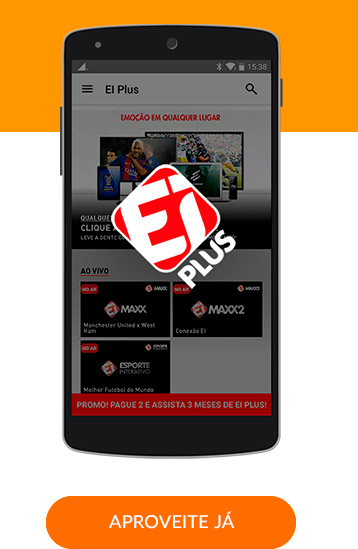
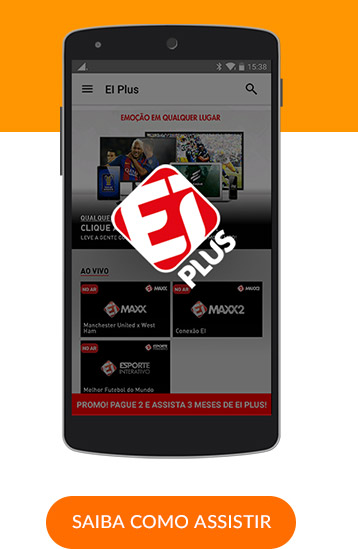
ajustes esporte interativo (textos e imagens)

diff --git a/portal-copel-telecom/emails/Email_EsporteInterativo.html b/portal-copel-telecom/emails/Email_EsporteInterativo.html
@@ -29,15 +29,15 @@
 						<td valign="top">
 							<img src="http://www.copeltelecom.com/site/wp-content/themes/portal-copel-telecom/_assets/images/email/ei-tt.jpg" height="132" width="392" alt="Não perca essa chance única de assistir as maiores competições do planeta." border="0" />
 							<font face="Arial, Tahoma, Sans-serif" color="#6375a0" style="font-size: 16px; font-weight: 400; display: block; line-height: 24px; padding-left: 62px; padding-top: 33px;">
-								Os principais conteúdos oferecidos pelo Esporte Interativo são os jogos da <strong style="color: #ff6d00;">UEFA Champions League</strong> (competição que reúne os melhores times do futebol europeu) e a <strong style="color: #ff6d00;">E-League</strong> (maior torneio de Counter Strike), além da <strong style="color: #ff6d00;">National Football League (NFL)</strong>, a maior liga de futebol americano que conecta você às novidades dos times dos Estados Unidos.
+								Os principais conteúdos oferecidos pelo Esporte Interativo são os jogos da <strong style="color: #ff6d00;">UEFA Champions League</strong> (maior torneio de clubes do mundo) e a <strong style="color: #ff6d00;">E-League</strong> (maior competição de Counter Strike), além da <strong style="color: #ff6d00;">National Football League (NFL)</strong>, a maior liga de futebol americano que conecta você às novidades dos times dos Estados Unidos.
 								<br><br>
-								Você também pode ficar ligado nas transmissões de lutas através de programas como o <strong style="color: #ff6d00;">TNA Impact</strong>, além de grandes eventos de MMA.
+								Você também pode ficar ligado nas transmissões de lutas mais surpreendentes de <strong style="color: #ff6d00;">MMA </strong> e em toda a emoção do <strong style="color: #ff6d00;">Pro Wrestling.</strong> É hora de desfrutar por completo do mundo dos esportes através de toda a programação dos Canais do Esporte Interativo.
 								<br><br>
-								<a style="color: #6375a0; font-size: 16px;">Utilize seu e-mail de cadastro da Copel Telecom como Login e o CPF do titular da conta como senha.</a>
+								<span style="color: #6375a0; font-size: 16px;">Utilize seu e-mail de cadastro da Copel Telecom como Login e o CPF do titular da conta como senha.</span>
 							</font>
 						</td>
-						<td>
-							<a href="http://www.copeltelecom.com/site/esporte-interativo"><img src="http://www.copeltelecom.com/site/wp-content/themes/portal-copel-telecom/_assets/images/email/ei-saiba-mais.jpg" height="549" width="358" alt="Não veja pela metade. - Não fique sem internet no meio do episódio. Assine Copel Telecom e leve até 6 meses de Netflix por nossa conta." border="0" style="display: block; margin: 0px; margin-top: -52px" /></a>
+						<td valign="top">
+							<a href="http://www.copeltelecom.com/site/esporte-interativo"><img src="http://www.copeltelecom.com/site/wp-content/themes/portal-copel-telecom/_assets/images/email/ei-saiba-mais.jpg" height="549" width="358" alt="Não veja pela metade. - Não fique sem internet no meio do episódio. Assine Copel Telecom e leve até 6 meses de Netflix por nossa conta." border="0" style="display: block; margin: 0px;" /></a>
 						</td>
 					</tr>
 				</table>
@@ -50,7 +50,7 @@
 
 		<tr>
 			<td align="center">
-						<font face="Arial, Tahoma, Sans-serif" color="#6375a0" style="font-size: 16px; font-weight: 400; display: block; line-height: 24px; padding-left: 62px; padding-top: 33px;">
+				<font face="Arial, Tahoma, Sans-serif" color="#6375a0" style="font-size: 16px; font-weight: 400; display: block; line-height: 24px; padding-left: 62px; padding-top: 33px;">
 					Mais detalhes sobre a parceria você pode consultar no <a href="http://www.copeltelecom.com/site/wp-content/themes/portal-copel-telecom/_assets/pdf/regulamento-promocional_vf2.pdf" target="_blank" style="text-decoration: underline; color: #6375a0;">Regulamento!</a>
 				</font>
 			</td>

diff --git a/portal-copel-telecom/page-esporte-interativo.php b/portal-copel-telecom/page-esporte-interativo.php
@@ -9,10 +9,10 @@
 			<div class="container">
 				<div class="row">
 					<div class="col-md-6 col-sm-9 col-xs-12">
-						<h1>Clientes Copel Telecom*, tem acesso gratuito ao aplicativo EI Plus.</h1>
-						<p>Com ele, você pode acompanhar as maiores competições esportivas do planeta! Aproveite, o beneficio vai até o final de abril de 2017. Não perca tempo!</p>
+						<h1>Cliente Copel Telecom, tem acesso gratuito ao conteúdo do Esporte Interativo</h1>
+						<p>Com ele, você pode acompanhar as maiores competições esportivas do planeta! Aproveite, o beneficio vai até o final de abril. Não perca tempo!</p>
 						<a href="#sobre" class="bt bt-orange">SAIBA COMO ASSISTIR</a>
-						<small>*Disponível para os planos residenciais a partir de 10Mbps.</small>
+						<small>*Disponível para os planos residenciais a partir de 10 Mbps.</small>
 						<div class="clearfix"></div>
 					</div>
 					<div class="col-md-6 col-sm-9 col-xs-12">
@@ -30,19 +30,19 @@
 				
 				<article class="row">
 					
-					<figure class="col-sm-5 col-sm-offset-1 pad25R hidden-sm hidden-xs">
+					<figure class="col-sm-6 hidden-sm hidden-xs">
 
 						<img src="<?php bloginfo('template_url'); ?>/_assets/images/esporte-interativo/campeonatos.jpg" class="mrg50R" alt="Campeonatos">
 
 					</figure>
 
-					<div class="col-sm-5 pad25L">
+					<div class="col-sm-5 pad50L">
 
 						<span class="space-50"></span>
 						<img src="<?php bloginfo('template_url'); ?>/_assets/images/esporte-interativo/logo.jpg" class="logo-ei" alt="Canais Esporte Interativo">
 						<h3>A paixão e a emoção pelo esporte, onde você estiver</h3>
-						<p>Assista aos principais conteúdos oferecidos pelos Canais Esporte Interativo e fique por dentro de tudo o que acontece no mundo dos esportes. São programas imperdíveis como a <strong class="text-orange">UEFA Champions League</strong> (competição que reúne os melhores times do futebol europeu) e a <strong class="text-orange">E-League</strong> (maior torneio de Counter Strike), além da <strong class="text-orange">National Football League (NFL)</strong>, a maior liga de futebol americano que conecta você às novidades dos times dos Estados Unidos.</p>
-						<p>Você também pode ficar ligado nas transmissões das lutas mais emocionantes de <strong class="text-orange">MMA</strong> e <strong class="text-orange">Wrestling</strong> e desfrutar por completo do mundo dos esportes através de toda a programação dos Canais do Esporte Interativo.</p>
+						<p>Assista aos principais conteúdos oferecidos pelos Canais Esporte Interativo e fique por dentro de tudo o que acontece no mundo dos esportes. São programas imperdíveis, como a <strong class="text-orange">UEFA Champions League</strong> (maior torneio de clubes do mundo) e a <strong class="text-orange">E-League</strong> (maior competição de Counter Strike), além da <strong class="text-orange">National Football League (NFL)</strong>, a maior liga de futebol americano que conecta você às novidades dos times dos Estados Unidos.</p>
+						<p>Você também pode ficar ligado nas transmissões das lutas mais surpreendentes de <strong class="text-orange">MMA</strong> e em toda emoção do <strong class="text-orange">Wrestling.</strong> É hora de desfrutar por completo do mundo dos esportes através de toda a programação dos Canais do Esporte Interativo.</p>
 
 					</div>
 
@@ -64,7 +64,7 @@
 						<div class="col-sm-4">
 
 							<h3>Sobre o Esporte Interativo</h3>
-							<p>O Esporte Interativo é uma das maiores marcas do mundo dedicada a produção e distribuição de conteúdos esportivos em múltiplas plataformas. Formado pelos canais <span class="text-orange">EIMAXX</span>, <span class="text-orange">EIMAXX 2</span> e <span class="text-orange">Esporte Interativo</span>, o EI Plus, tem o objetivo de estar próximo do público apaixonado por esportes, onde ele estiver. </p>
+							<p>O Esporte Interativo é uma das maiores marcas do mundo dedicada à produção e distribuição de conteúdos esportivos em múltiplas plataformas. Formado pelos canais <span class="text-orange">EIMAXX</span>, <span class="text-orange">EIMAXX 2</span> e <span class="text-orange">Esporte Interativo</span>, o EI Plus, tem o objetivo de estar próximo do público apaixonado por esportes, onde ele estiver. </p>
 							<p><strong>No EI Plus você pode acompanhar todos os conteúdos dos Canais Esporte interativo no celular, no computador, na smart TV LG, no tablet ou na Apple TV.</strong></p>
 							<a href="#como-acessar" class="bt bt-orange">SAIBA COMO ACESSAR</a>
 						</div>
@@ -98,7 +98,7 @@
 						<h3>Clientes Copel Telecom</h3>
 
 						<div class="col-sm-10 col-sm-offset-1 text-center">
-							<p>Para começar a aproveitar os benefícios dessa parceria, basta você baixar o aplicativo EI Plus nas lojas <strong class="text-orange">Apple Store</strong> ou <strong class="text-orange">Google Play Store</strong>. Depois, faça o login no aplicativo com os dados de acesso que você recebeu por e-mail da Copel Telecom. Aproveite! O plano do EI Plus permite até dois acessos simultâneos.</a>
+							<p>Confira abaixo como é fácil baixar o aplicativo do <strong class="text-orange">EI Plus</strong> na seu smartphone ou tablet:<br>*O plano do <strong class="text-orange">EI Plus</strong> permite até dois acessos simultâneos.</p>
 						</div>
 
 					</div>
@@ -116,7 +116,7 @@
 						<li class="col-sm-3 col-xs-6 mrg30B">
 							<div data-mh="group-li">
 								<i>2</i>
-								<span>Acesse a loja de aplicativos no seu smartphone Apple ou Android e baixe o aplicativo <strong>EI Plus</strong></span>
+								<span>Acesse a loja de aplicativos no seu Smartphone ou tablet e baixe o aplicativo <strong>EI Plus</strong></span>
 								<span class="space-20"></span>
 								<img src="<?php bloginfo('template_url'); ?>/_assets/images/esporte-interativo/i-store.png" alt="App Store">
 								<img src="<?php bloginfo('template_url'); ?>/_assets/images/esporte-interativo/i-play.png" alt="Google Play">
@@ -126,7 +126,7 @@
 						<li class="col-sm-3 col-xs-6 mrg30B">
 							<div data-mh="group-li">
 								<i>3</i>
-								<span>No aplicativo <strong>EI Plus</strong> faça o login com o dados de acesso recebidos por e-mail*</span>
+								<span>No aplicativo <strong>EI Plus</strong>, faça o login com o dados de acesso recebidos por e-mail*</span>
 								<span class="space-35"></span>
 								<img src="<?php bloginfo('template_url'); ?>/_assets/images/esporte-interativo/form.png" alt="Formulário">
 								<small>* Após o seu primeiro acesso, recomendamos que você altere a sua senha.</small>
@@ -135,7 +135,7 @@
 						<li class="col-sm-3 col-xs-6 mrg30B">
 							<div data-mh="group-li">
 								<i>4</i>
-								<span>Aproveite! Assinantes Copel Telecom tem até dois acessos simultâneos no celular, computador, tablet e Apple TV*</span>
+								<span>Aproveite! Assinante Copel Telecom tem até dois acessos simultâneos</span>
 								<span class="space-10"></span>
 								<img src="<?php bloginfo('template_url'); ?>/_assets/images/esporte-interativo/i-el-plus.png" alt="El Plus">
 							</div>
@@ -146,11 +146,11 @@
 
 				<span class="space-25 hidden-sm"></span>
 
-				<small class="text-center display-block">*Caso você não tenha recebido o e-mail, o login é seu e-mail cadastrado na Copel Telecom e sua senha você pode recuperar no site www.eiplus.com.br/entrar<br> escolhendo a opção “Esqueci minha senha”. Caso ainda não tenha conseguido acessar, entre em contato pelo e-mail relacionamento@esporteinterativoplus.com.br </small>
+				<small class="text-center display-block">*Caso você não tenha recebido o e-mail, o login é seu e-mail cadastrado na Copel Telecom e sua senha você pode recuperar no site <strong><u>www.eiplus.com.br/entrar</u></strong><br> escolhendo a opção <strong>“Esqueci minha senha”</strong>. Caso ainda não tenha conseguido acessar, entre em contato pelo e-mail <strong>relacionamento@esporteinterativoplus.com.br</strong> </small>
 				
 				<span class="space-20"></span>
 
-				<small class="text-center display-block">Já se cadastrou mas esqueceu sua senha? Entre no site www.eiplus.com.br, clique na opção “Esqueci minha senha” e informe seu e-mail ou telefone cadastrado. </small>
+				<small class="text-center display-block">Já se cadastrou mas esqueceu sua senha? Entre no site www.eiplus.com.br, clique na opção <strong>“Esqueci minha senha”</strong> e informe seu e-mail ou telefone cadastrado.</small>
 
 				<span class="space-50"></span>	
 
@@ -168,9 +168,8 @@
 						<div class="col-sm-7">
 							<h3>Disponibilidade</h3>
 							<p>
-								O acesso gratuito ao aplicativo EI Plus está disponível para clientes de planos residenciais a partir de 10Mbps que possuem os seguintes planos:
+								O acesso gratuito ao aplicativo EI Plus está disponível para clientes de planos residenciais a partir de 10 Mbps
 							</p>
-							<h6>COPEL FIBRA 10, 25, 50, 75, E 150 Mbps</h6>
 						</div>
 
 						<div class="col-sm-4 col-sm-offset-1">
@@ -212,7 +211,7 @@
 				Ainda não é cliente Copel Telecom?
 			</h6>
 			<p class="text-center">
-				<a href="<?php bloginfo('url'); ?>/planos"><u class="text-orange">Conheça os nossos planos</u></a> de banda extralarga e qualquer dúvida liga pra gente.
+				<a href="<?php bloginfo('url'); ?>/planos"><u class="text-orange">Conheça os nossos planos</u></a> de banda extralarga
 			</p>
 
 		</div>

diff --git a/portal-copel-telecom/templates/home-default.php b/portal-copel-telecom/templates/home-default.php
@@ -174,28 +174,29 @@
 					<ul class="row">
 						<li class="col-sm-6 col-xs-12 nav-highlights-orange-light" data-mh="nh-group">
 							<div class="nav-highlights-tt">
+								<div class="space-10"></div>
 								<a href="http://www.copeltelecom.com/site/blog/conheca-o-aplicativo-da-copel-telecom/">
 									<i><img src="<?php bloginfo('template_url'); ?>/_assets/images/home/app-icone.png" alt=""></i>
 									<h3>Novo App Copel Telecom</h3>
 									<p>Toda a facilidade e velocidade da<br><strong>Copel Telecom - Copel Fibra</strong> agora em suas mãos</p>
 								</a>
 							</div>
+							<div class="space-20"></div>
 							<img src="<?php bloginfo('template_url'); ?>/_assets/images/home/app.jpg" class="img-app" alt="">
 							<span class="space-5"></span>
-							<a href="http://www.copeltelecom.com/site/blog/conheca-o-aplicativo-da-copel-telecom/" class="bt bt-white">CONHEÇA</a>
+							<a href="http://www.copeltelecom.com/site/blog/conheca-o-aplicativo-da-copel-telecom/" class="bt bt-white mrg20T">CONHEÇA</a>
 						</li>
 						<li class="col-sm-6 col-xs-12" data-mh="nh-group">
-							<div class="nav-highlights-tt mrg45L">
+							<div class="nav-highlights-tt mrg50L">
 								<a href="<?php bloginfo('url'); ?>/esporte-interativo">
 									<i><img src="<?php bloginfo('template_url'); ?>/_assets/images/home/ei-icone.png" alt=""></i>
-									<span class="space-5"></span>
 									<h3>Esporte Interativo</h3>
+									<p>Cliente Copel Telecom* tem acesso gratuito ao conteúdo do Esporte Interativo para assistir o melhor da liga dos campeões, Europa League, NFL e MMA.</p>
 								</a>
 							</div>
 							<div class="row">
-								<span class="space-40"></span>
-								<img src="<?php bloginfo('template_url'); ?>/_assets/images/home/ei.jpg" class="img-app" alt="">
-								<a href="<?php bloginfo('url'); ?>/esporte-interativo" class="bt pad15R pad15L mrg20T">CONFIRA COMO ADQUIRIR E APROVEITAR ESSA PROMOÇÃO</a>
+								<img src="<?php bloginfo('template_url'); ?>/_assets/images/home/ei.jpg" class="" alt="">
+								<a href="<?php bloginfo('url'); ?>/esporte-interativo" class="bt mrg5T pad50L pad50R">APROVEITE JÁ</a>
 							</div>
 						</li>
 					</ul>
